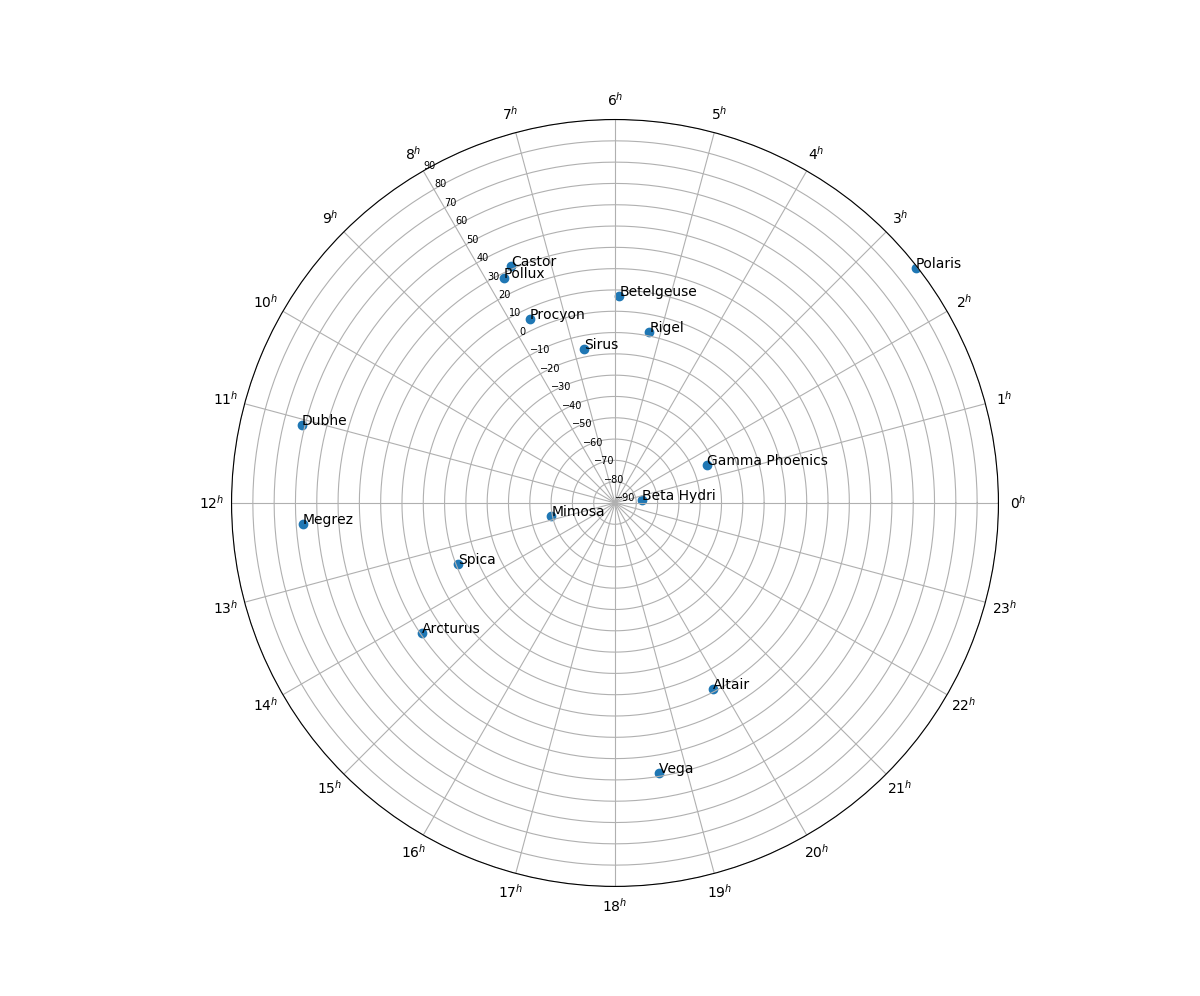
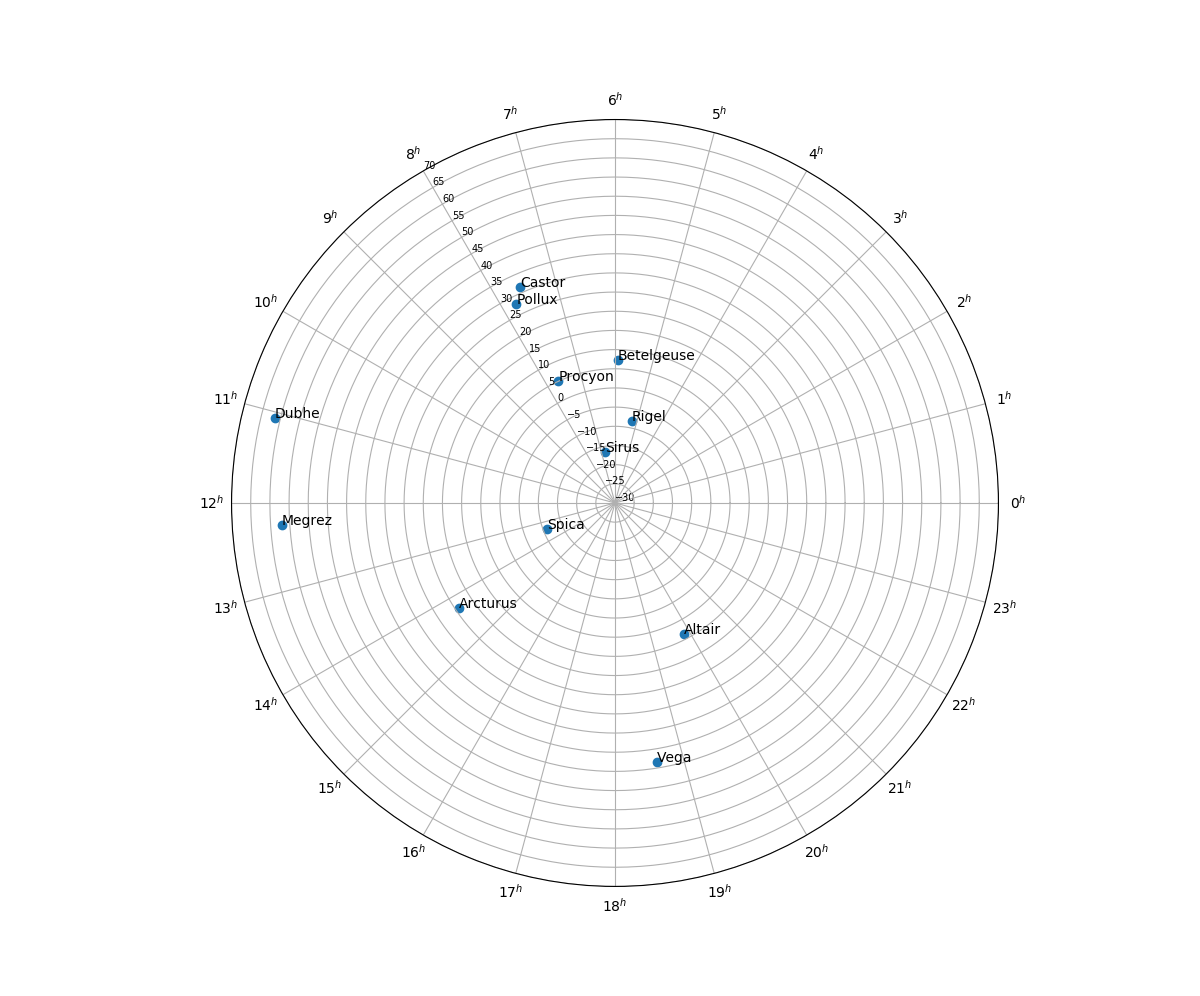
chart options for stars descriptions

Changed region(s): [[0.2158, 0.1245, 0.8017, 0.8715]]

diff --git a/page_x_astrolabe/generate_star_chart.py b/page_x_astrolabe/generate_star_chart.py
@@ -127,8 +127,9 @@ if __name__ == '__main__':
 	star_chart_list = convertRAhrtoRadians(star_chart_list)
 	#print(star_chart_list)
 
-	displayStarNames = True # display chart with star names
-	displayDeclinationMarks = True # display declination marks
-	northOrSouth = "Both" # options: "North", "South", "Both" (changes the declination range)
+	# Chart options
+	displayStarNames = True # display chart with star names (False/True)
+	displayDeclinationMarks = True # display declination marks (False/True)
+	northOrSouth = "North" # options: "North", "South", "Both" (changes the declination range)
 
 	plotCircluar(star_chart_list, northOrSouth, displayStarNames, displayDeclinationMarks)
